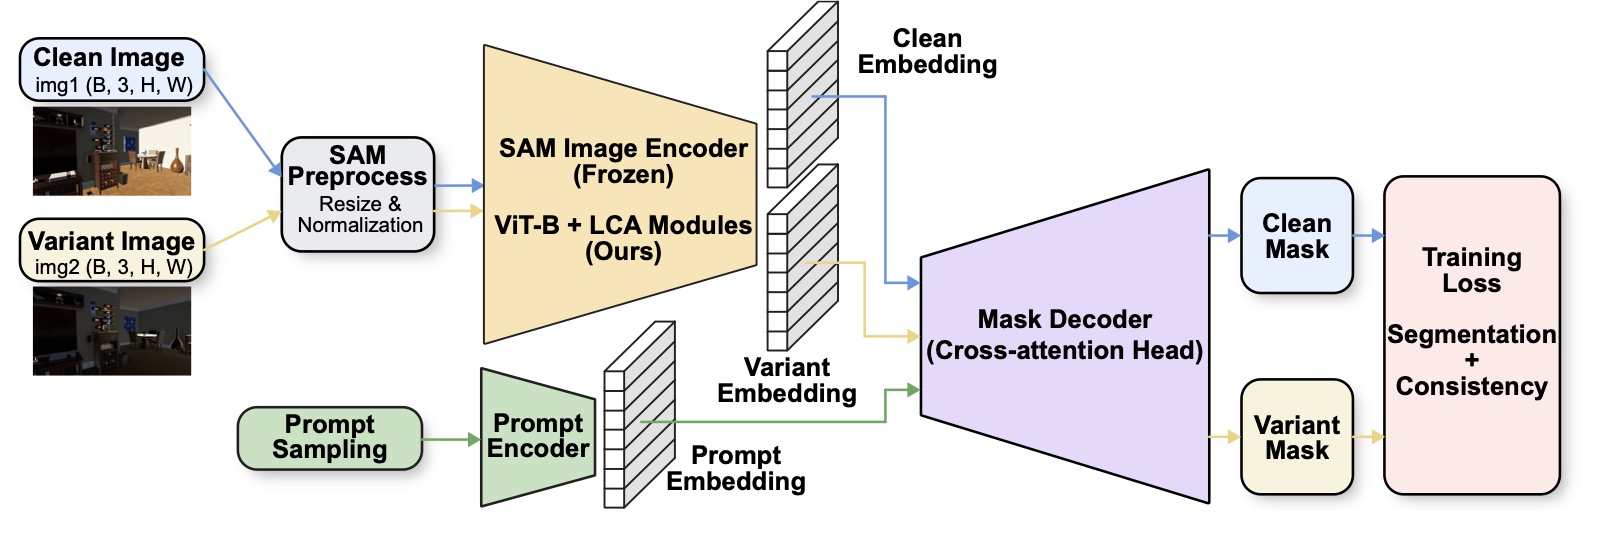
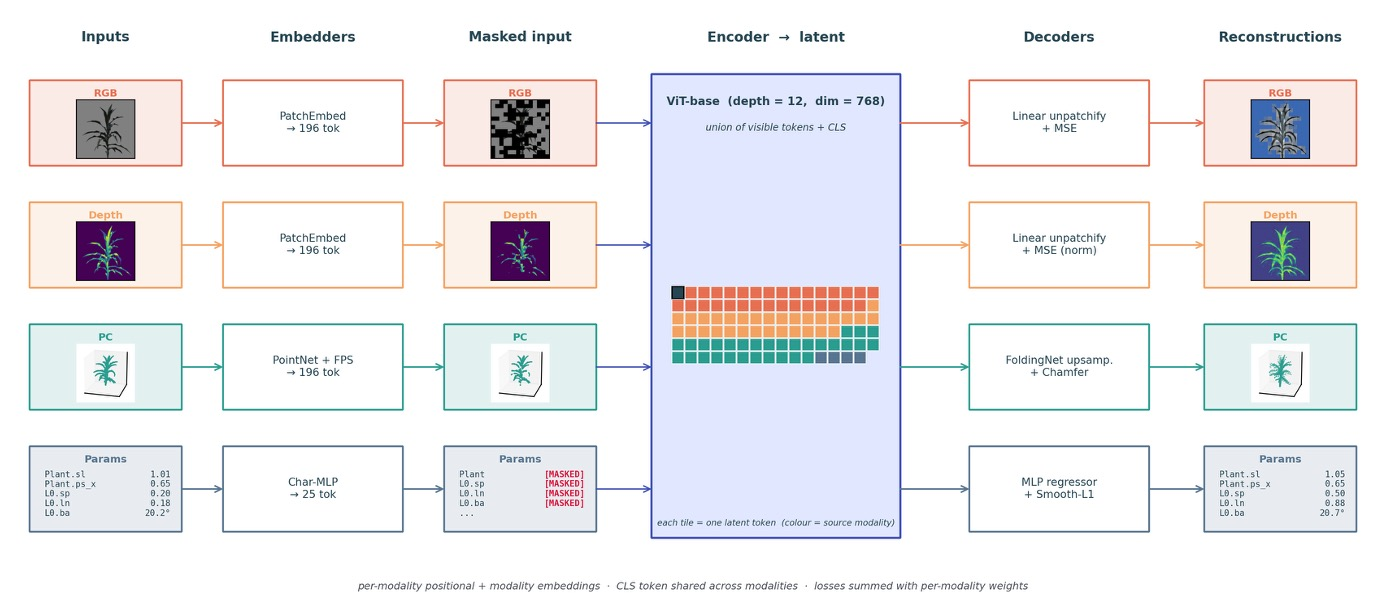
Update EmbodiedMAE and Lighting-Robust project thumbnails

diff --git a/_projects/2_project.md b/_projects/2_project.md
@@ -2,7 +2,7 @@
 layout: page
 title: Lighting-Robust Instance Segmentation
 description: SAM extended with a Lighting Convolutional Attention module
-img: assets/img/3.jpg
+img: assets/img/lca.jpg
 importance: 2
 category: work
 ---
